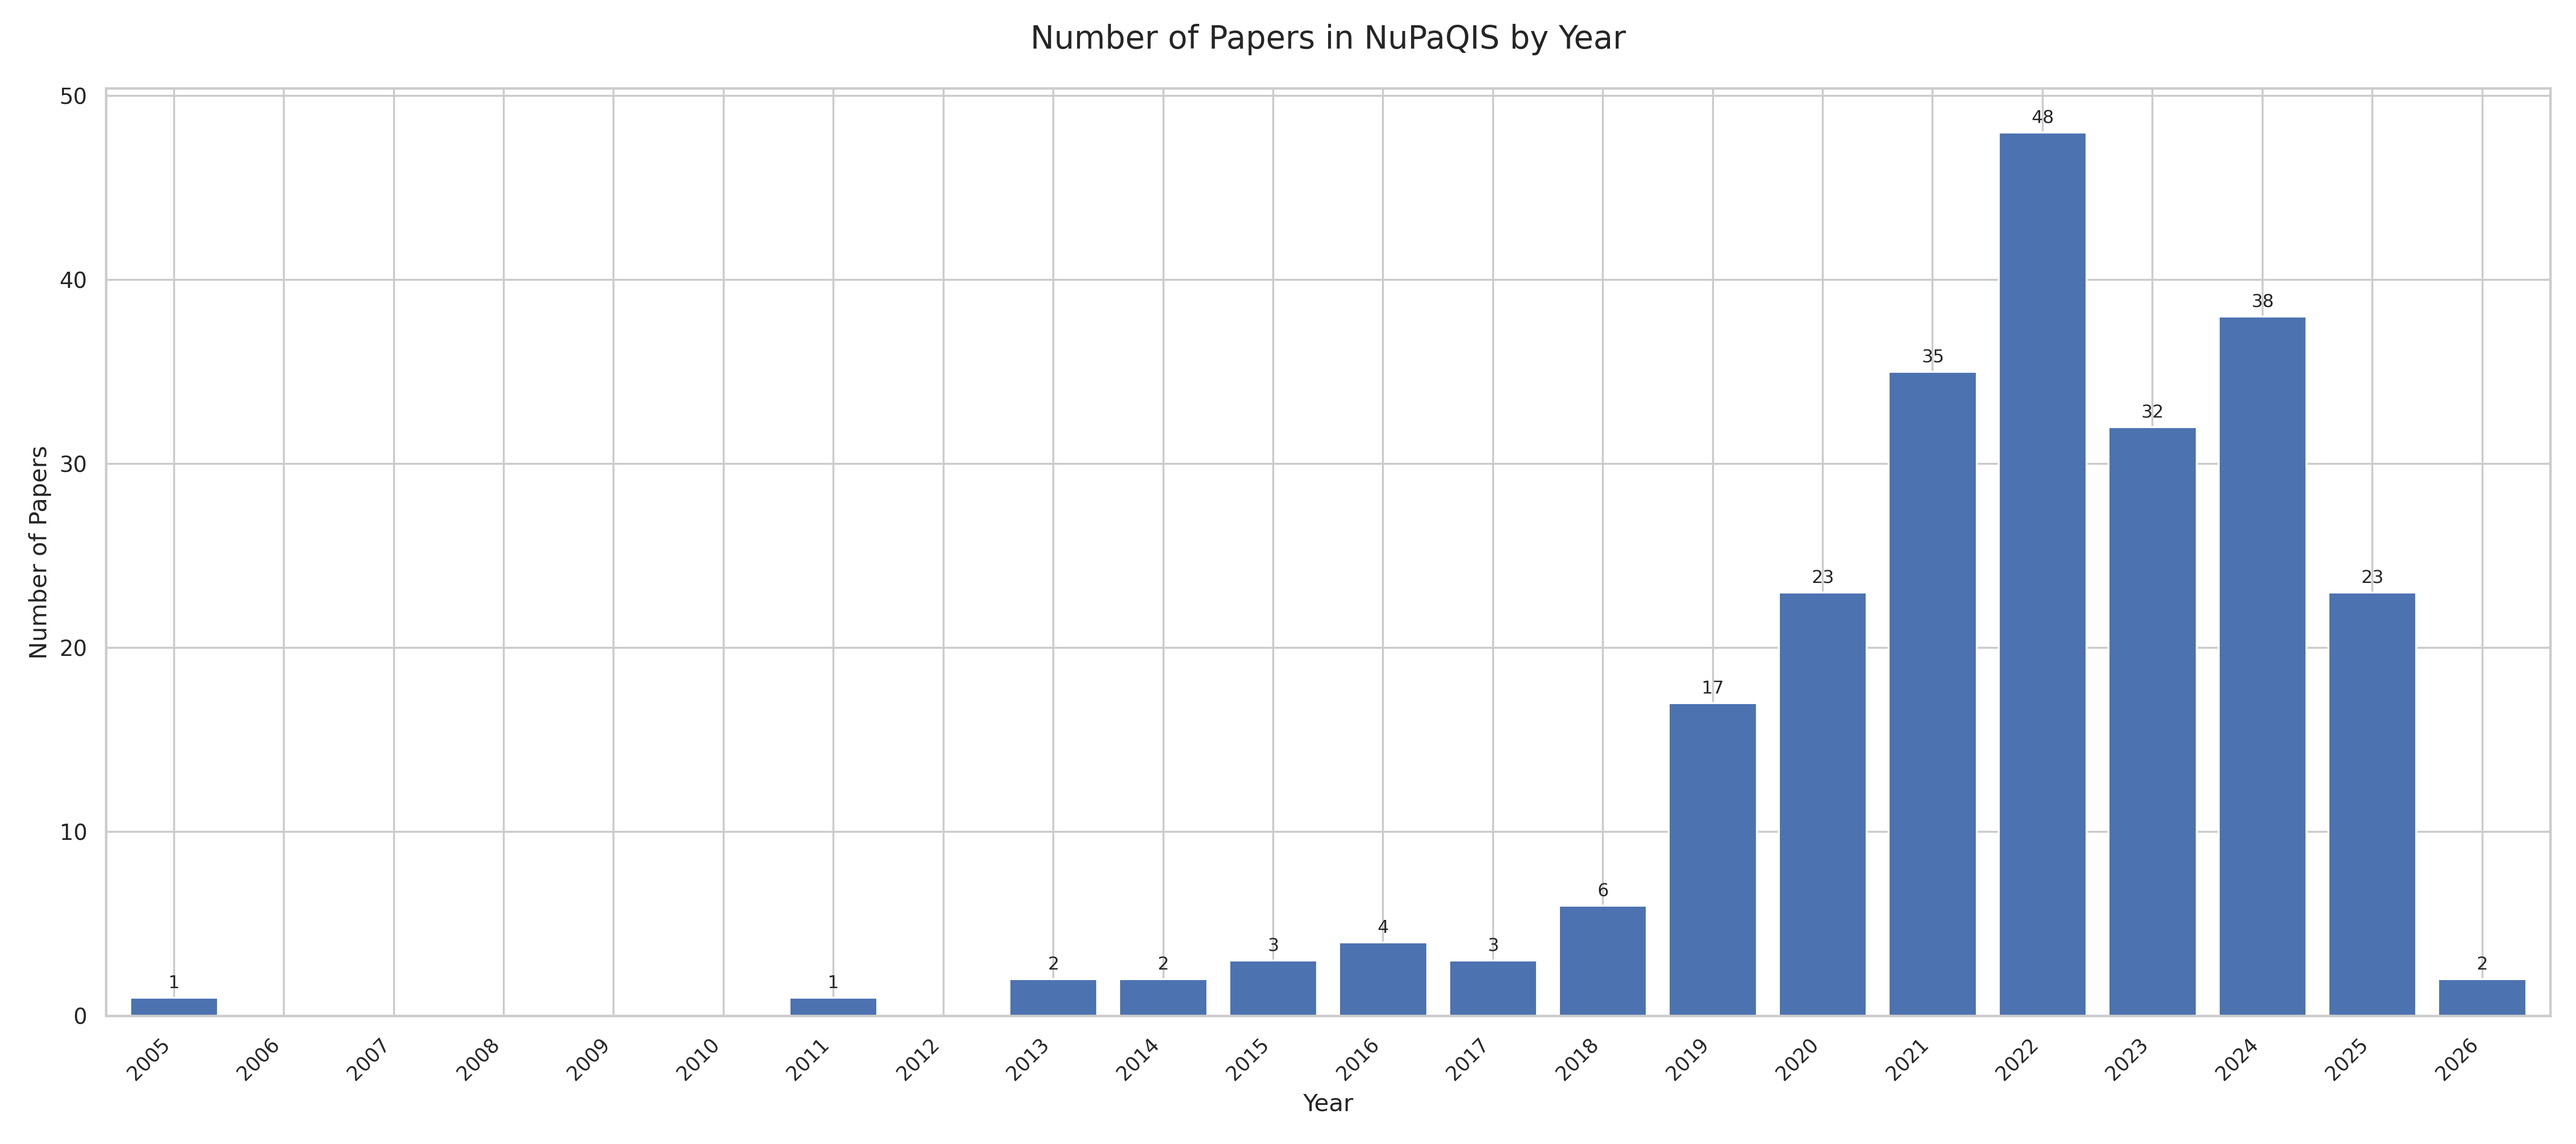
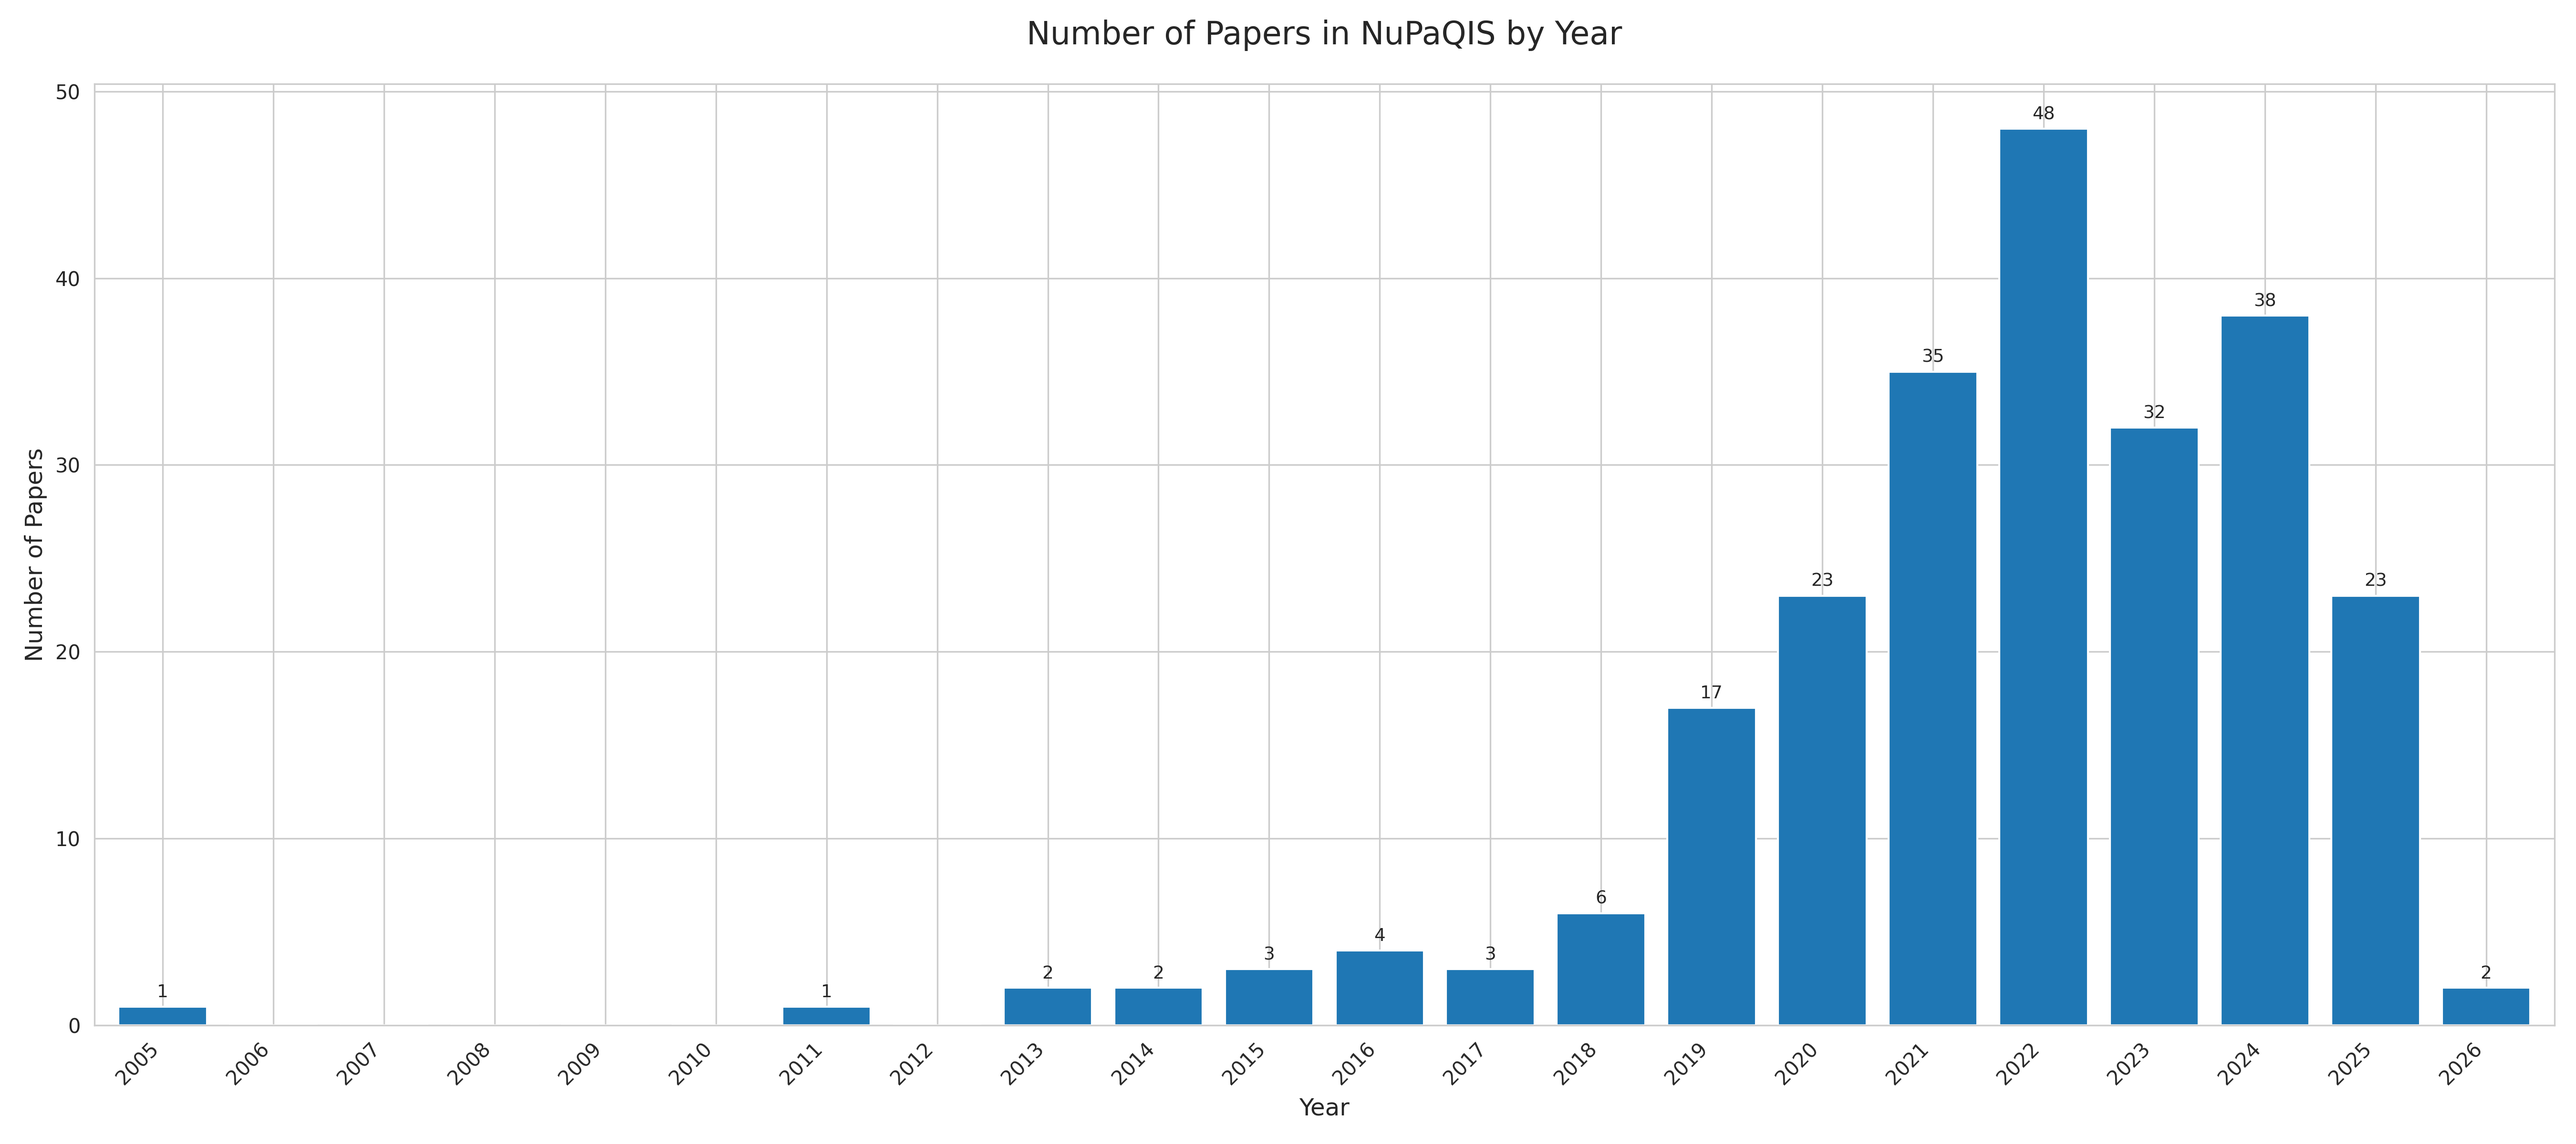
Fixed Heatmap

diff --git a/utils.py b/utils.py
@@ -366,29 +366,29 @@ def histogram_by_year(df):
     full_range = range(int(counts.index.min()), int(counts.index.max()) + 1)
     counts = counts.reindex(full_range, fill_value=0)
 
-    sns.set_theme(style="whitegrid")
-    fig, ax = plt.subplots(figsize=(18, 8))
+    with sns.axes_style("whitegrid"):
+        fig, ax = plt.subplots(figsize=(18, 8))
 
-    bars = ax.bar(counts.index, counts.values)
-    ax.set_xlabel("Year", fontsize=12)
-    ax.set_ylabel("Number of Papers", fontsize=12)
-    ax.set_title("Number of Papers in NuPaQIS by Year", fontsize=16, pad=20)
-    ax.set_xticks(list(counts.index))
-    ax.set_xticklabels(counts.index, rotation=45, ha='right', fontsize=10)
-    ax.margins(x=0.01)
+        bars = ax.bar(counts.index, counts.values)
+        ax.set_xlabel("Year", fontsize=12)
+        ax.set_ylabel("Number of Papers", fontsize=12)
+        ax.set_title("Number of Papers in NuPaQIS by Year", fontsize=16, pad=20)
+        ax.set_xticks(list(counts.index))
+        ax.set_xticklabels(counts.index, rotation=45, ha='right', fontsize=10)
+        ax.margins(x=0.01)
 
-    # Value labels above each bar
-    for bar in bars:
-        height = bar.get_height()
-        if height > 0:
-            ax.text(bar.get_x() + bar.get_width() / 2,
-                    height + 0.3,
-                    str(int(height)),
-                    ha='center', va='bottom', fontsize=9)
+        # Value labels above each bar
+        for bar in bars:
+            height = bar.get_height()
+            if height > 0:
+                ax.text(bar.get_x() + bar.get_width() / 2,
+                        height + 0.3,
+                        str(int(height)),
+                        ha='center', va='bottom', fontsize=9)
 
-    fig.tight_layout()
-    fig.savefig("NUPAQIS_Year.png", dpi=300)
-    plt.close(fig)
+        fig.tight_layout()
+        fig.savefig("NUPAQIS_Year.png", dpi=300)
+        plt.close(fig)
 
 def list_subcategories_to_md(OUTPUT_FILE_MAIN, subcategories, description, run_type):
     textcolor = 'textbfcolor9bc53d' if run_type == 'NUPA' else 'textbfcolor5bc0eb'
